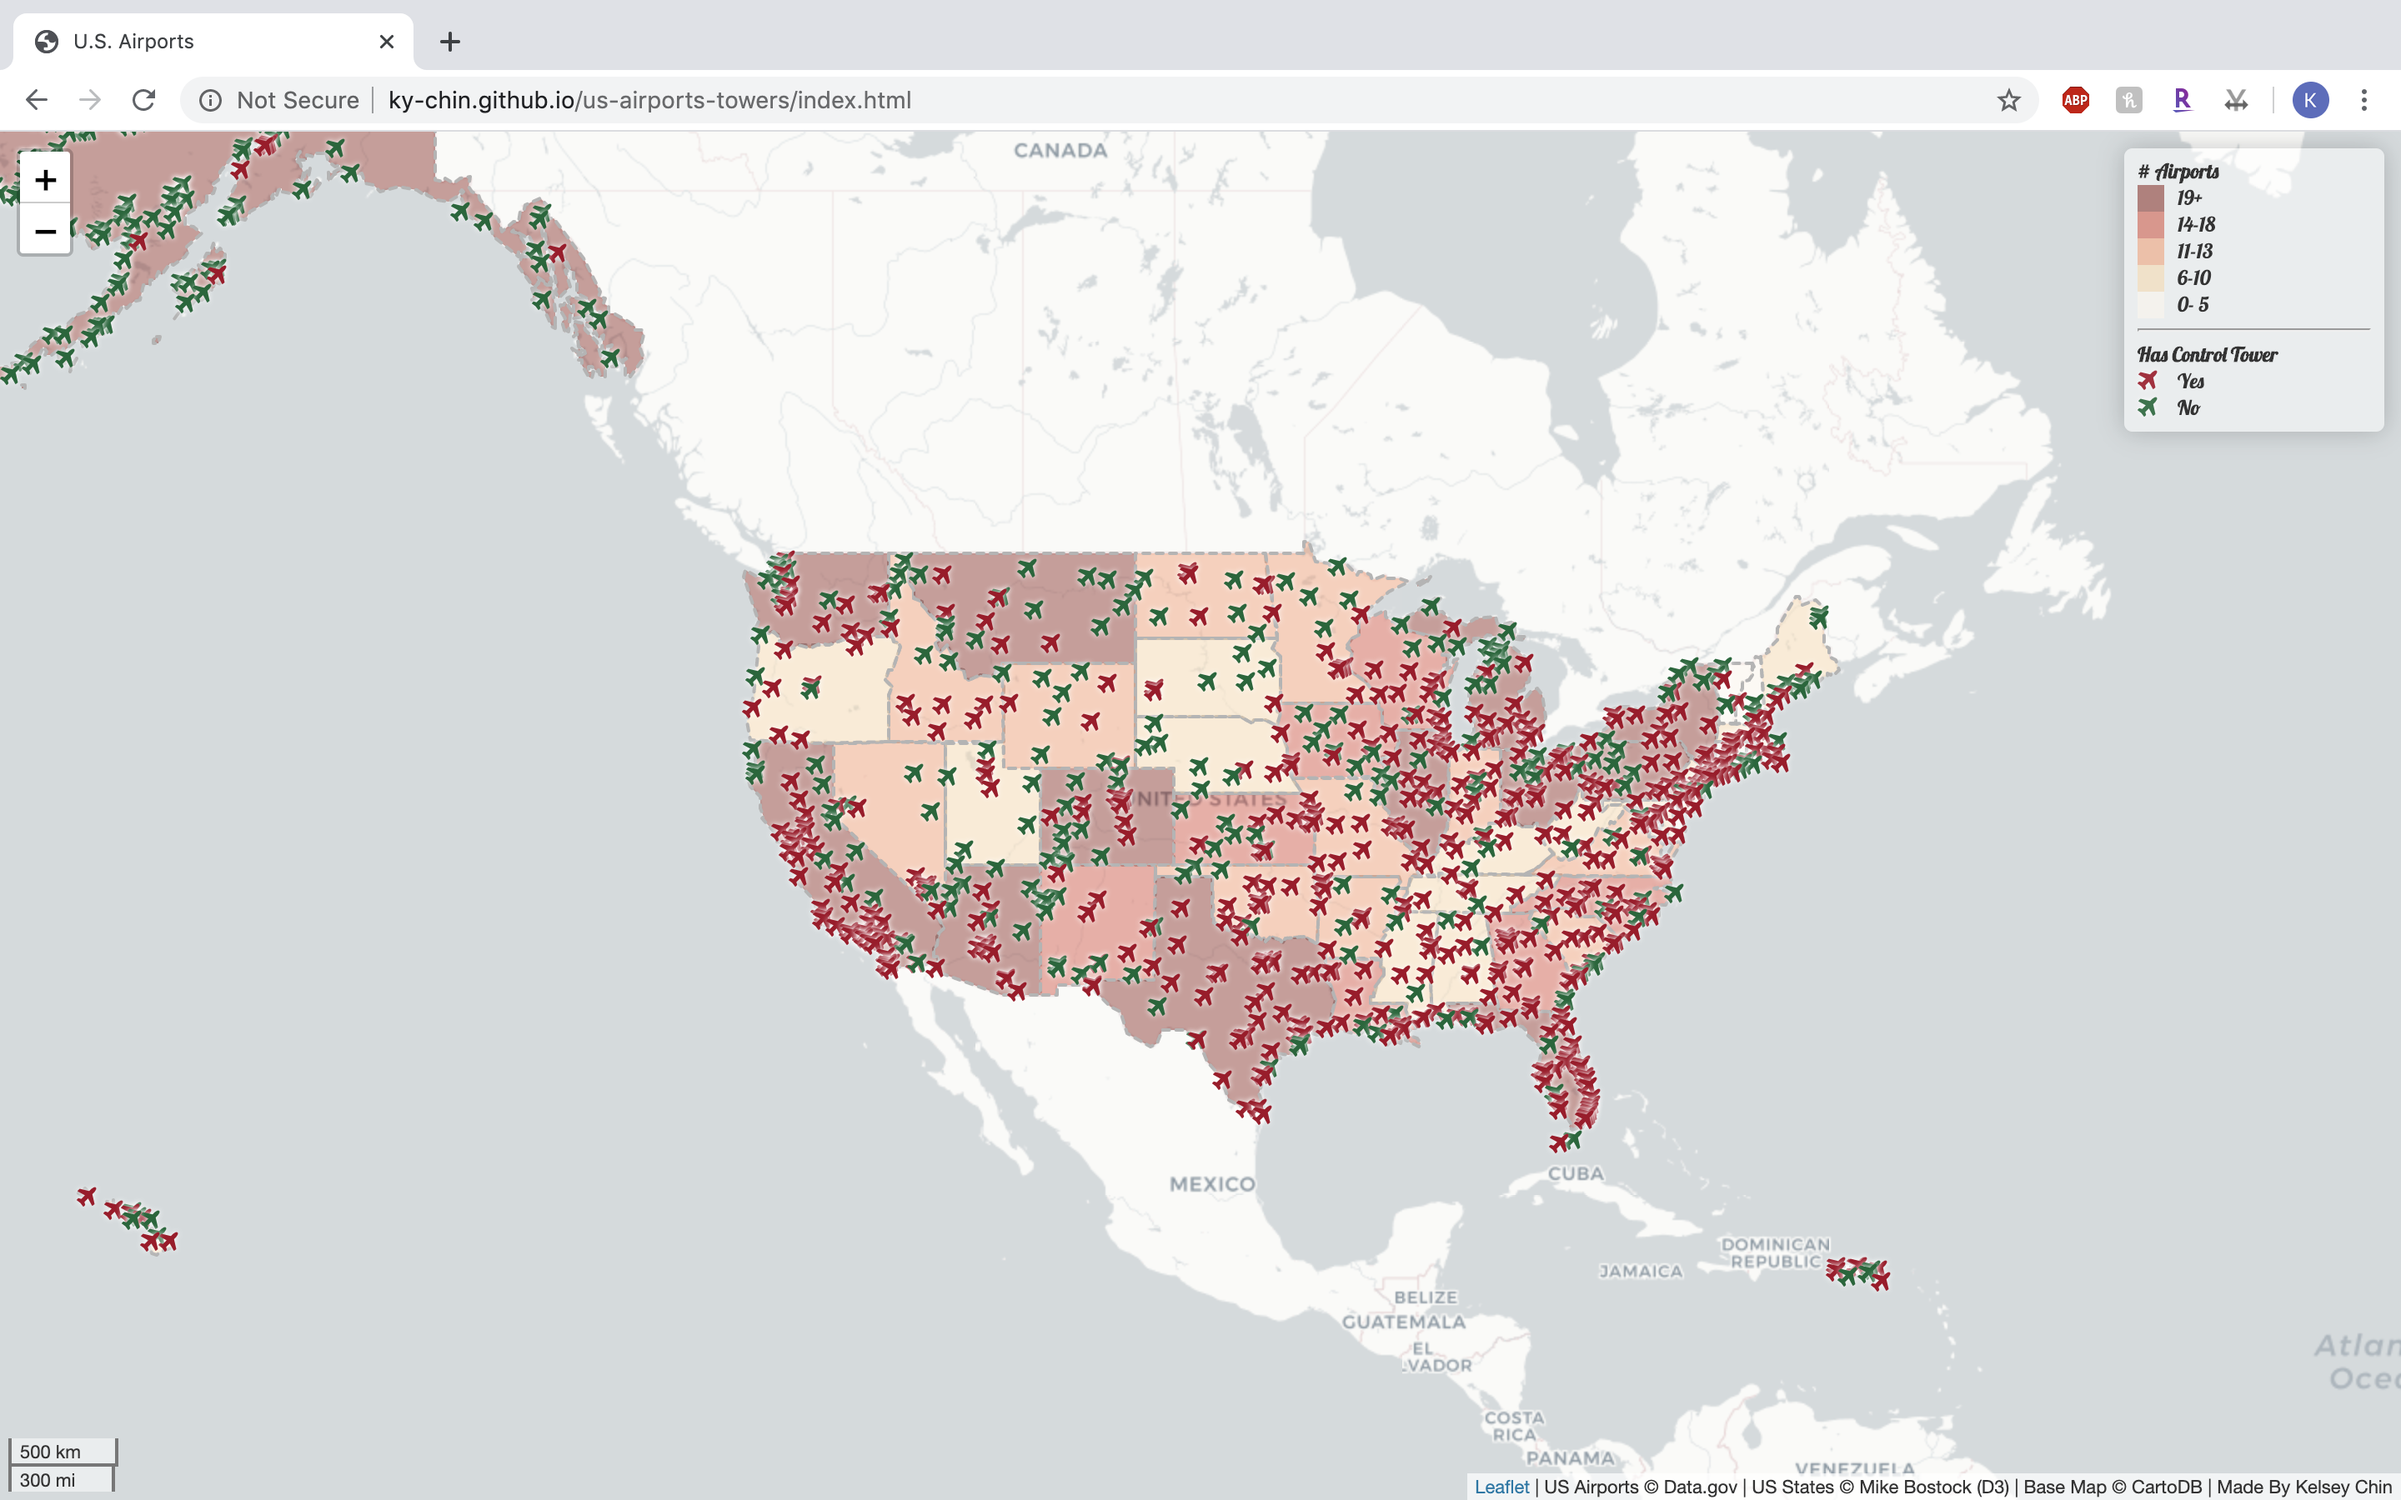
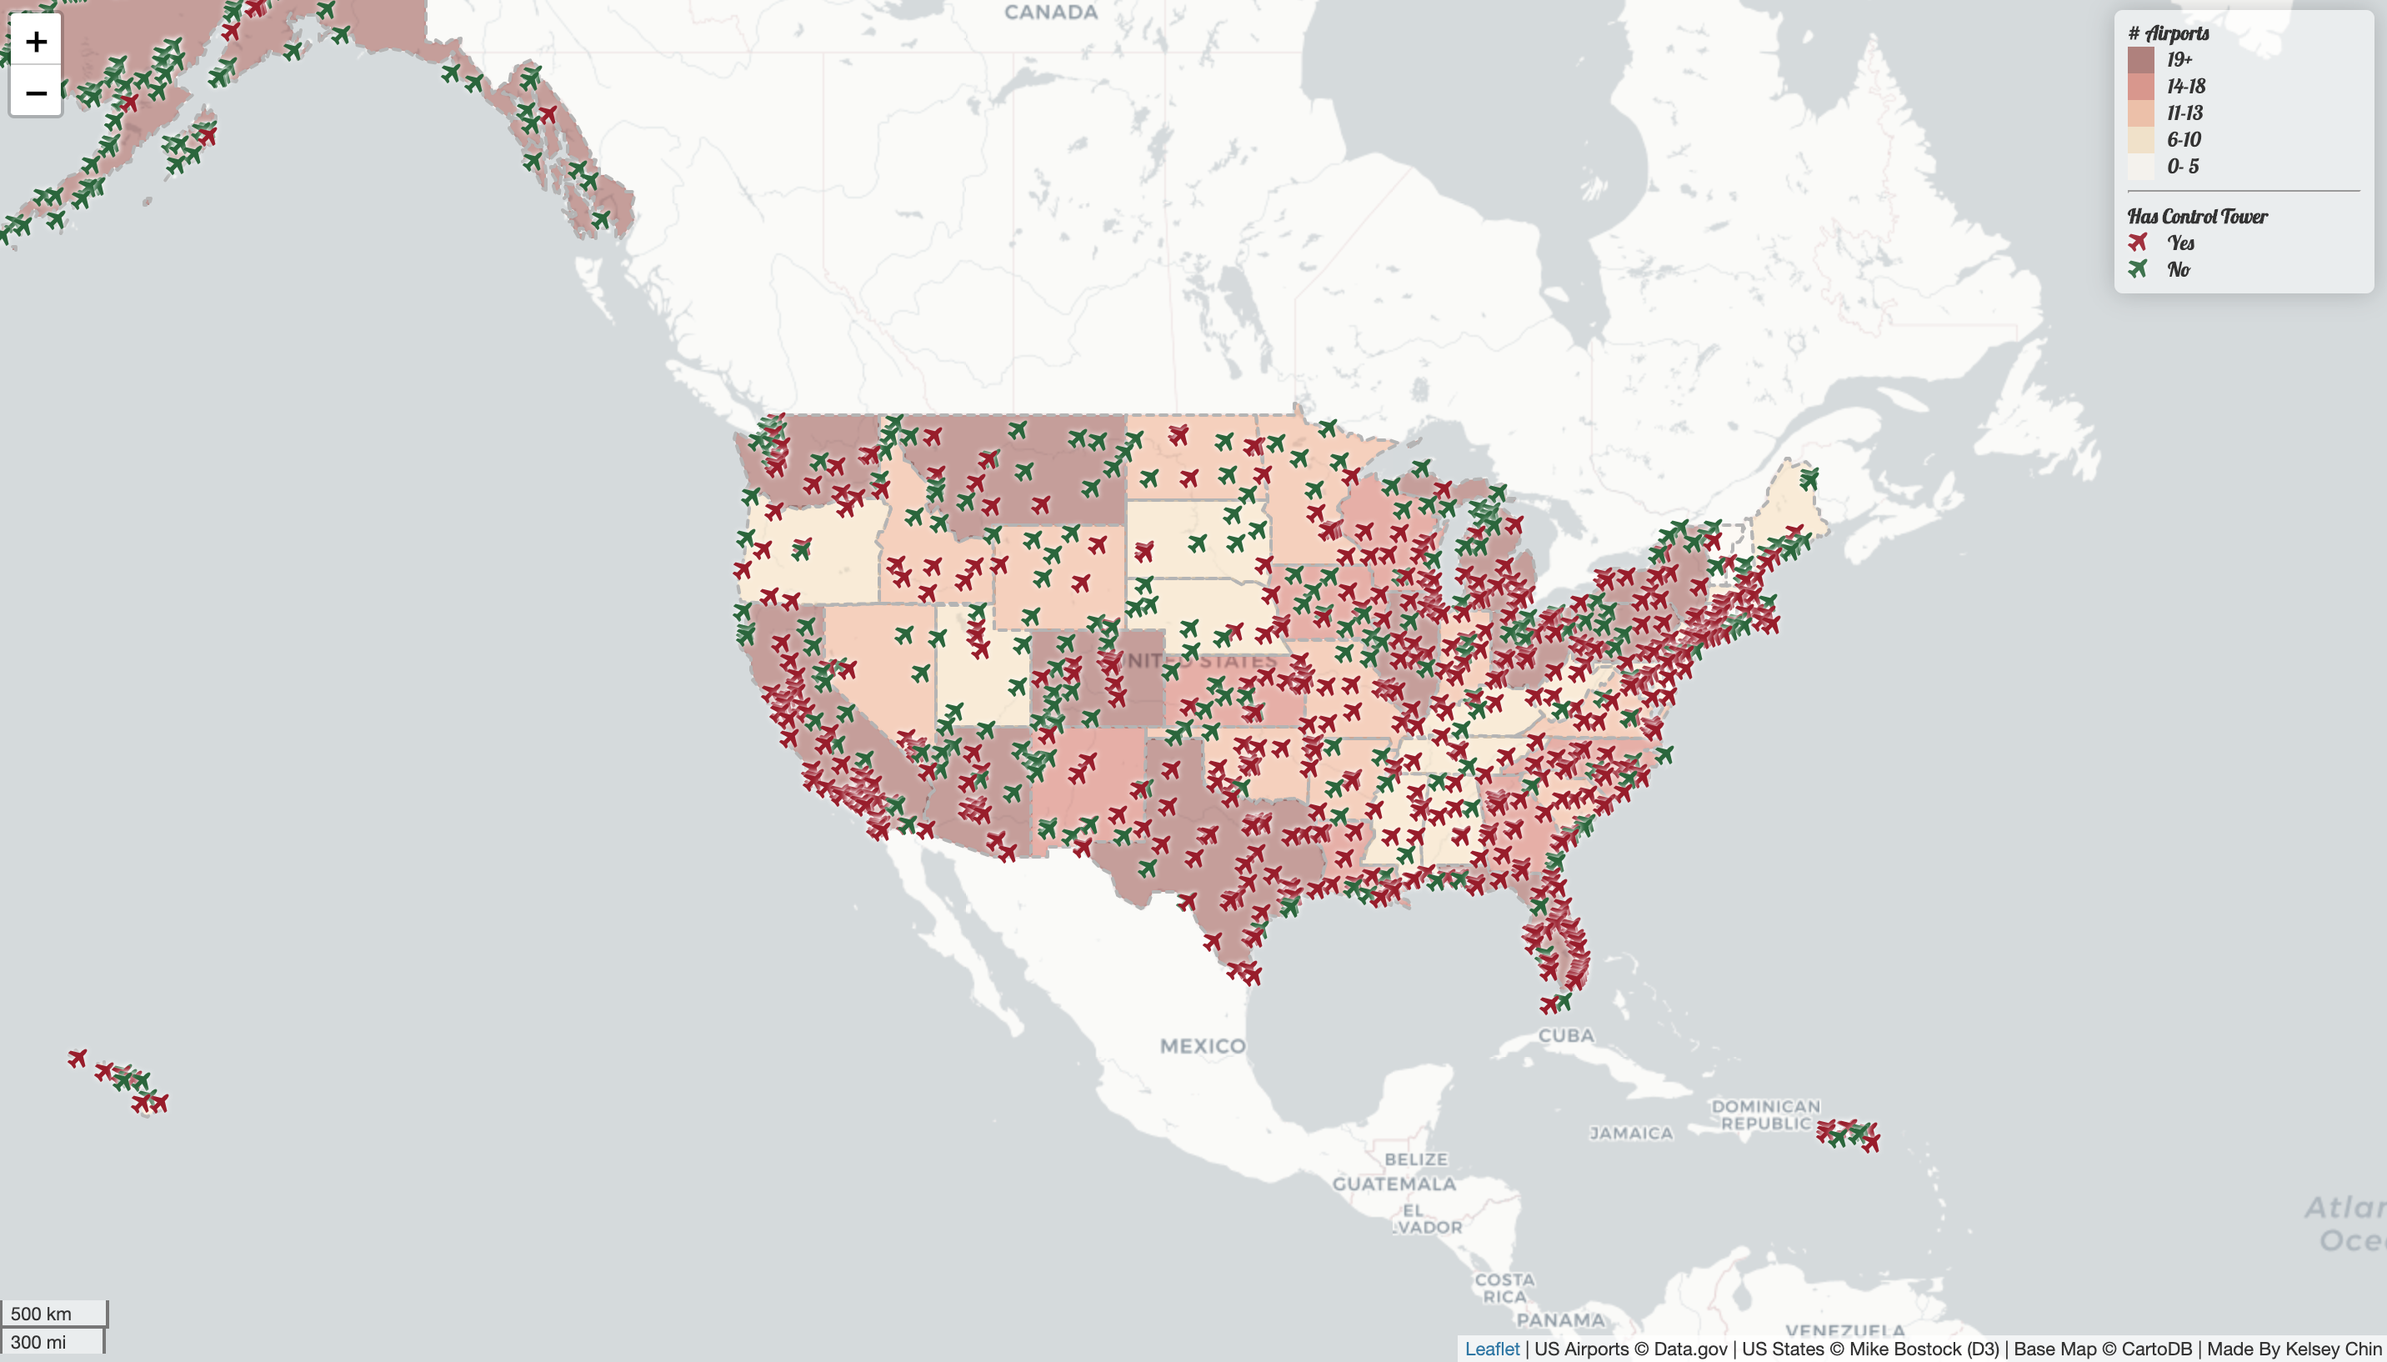
deliverable update

diff --git a/README.md b/README.md
@@ -5,9 +5,11 @@ Advanced Digital Geographies.
 
 ***
 
+![](img/map_final.png)
+
 This map is a display of the airports in the United States as of 2012. States display relative counts of airports, and airports themselves are categorized by whether or not they have a control tower. A popup for each airport displays basic information such as the name and location.
 
-![](img/map_final.png)
+![](img/map_final_popup.png)
 
 #### Sources
 - Basemap by CartoDB.
